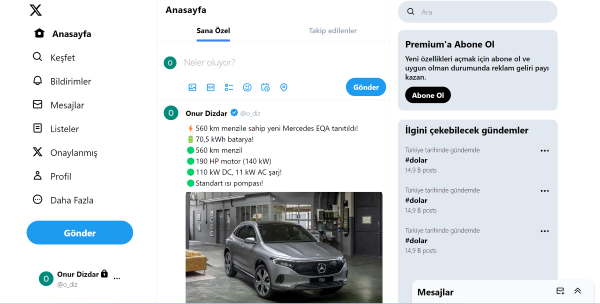
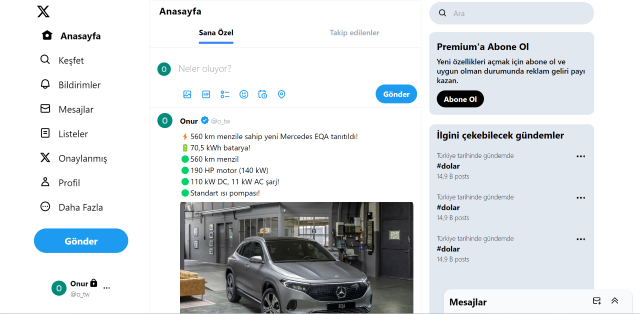
images resized

diff --git a/twitter-clone/src/components/altComponents/Tweets.jsx b/twitter-clone/src/components/altComponents/Tweets.jsx
@@ -16,14 +16,14 @@ export const Tweets = () => {
                 <div className="flex flex-col pl-2">
                   <div className="flex items-center">
                     <div className="font-bold flex text-base items-center">
-                      Onur Dizdar
+                      Onur
                       <span className="max-[600px]:scale-75 scale-90 hover:bg-slate-200 rounded-full p-1 cursor-pointer px-1">
                         <svg width="20" height="25" fill="#1d9bf0">
                           <path d="M20.396 11c-.018-.646-.215-1.275-.57-1.816-.354-.54-.852-.972-1.438-1.246.223-.607.27-1.264.14-1.897-.131-.634-.437-1.218-.882-1.687-.47-.445-1.053-.75-1.687-.882-.633-.13-1.29-.083-1.897.14-.273-.587-.704-1.086-1.245-1.44S11.647 1.62 11 1.604c-.646.017-1.273.213-1.813.568s-.969.854-1.24 1.44c-.608-.223-1.267-.272-1.902-.14-.635.13-1.22.436-1.69.882-.445.47-.749 1.055-.878 1.688-.13.633-.08 1.29.144 1.896-.587.274-1.087.705-1.443 1.245-.356.54-.555 1.17-.574 1.817.02.647.218 1.276.574 1.817.356.54.856.972 1.443 1.245-.224.606-.274 1.263-.144 1.896.13.634.433 1.218.877 1.688.47.443 1.054.747 1.687.878.633.132 1.29.084 1.897-.136.274.586.705 1.084 1.246 1.439.54.354 1.17.551 1.816.569.647-.016 1.276-.213 1.817-.567s.972-.854 1.245-1.44c.604.239 1.266.296 1.903.164.636-.132 1.22-.447 1.68-.907.46-.46.776-1.044.908-1.681s.075-1.299-.165-1.903c.586-.274 1.084-.705 1.439-1.246.354-.54.551-1.17.569-1.816zM9.662 14.85l-3.429-3.428 1.293-1.302 2.072 2.072 4.4-4.794 1.347 1.246z"></path>
                         </svg>
                       </span>
                     </div>
-                    <div className="font-light text-sm max-[600px]:text-xs text-slate-500">@o_diz</div>
+                    <div className="font-light text-sm max-[600px]:text-xs text-slate-500">@o_tw</div>
                   </div>
                   <div className="max-h-[568px]">
                     <div className="pt-1">
@@ -93,14 +93,14 @@ export const Tweets = () => {
                 <div className="flex flex-col pl-2">
                   <div className="flex items-center">
                     <div className="font-bold flex text-base items-center">
-                      Onur Dizdar
+                      Onur
                       <span className="max-[600px]:scale-75 scale-90 hover:bg-slate-200 rounded-full p-1 cursor-pointer px-1">
                         <svg width="20" height="25" fill="#1d9bf0">
                           <path d="M20.396 11c-.018-.646-.215-1.275-.57-1.816-.354-.54-.852-.972-1.438-1.246.223-.607.27-1.264.14-1.897-.131-.634-.437-1.218-.882-1.687-.47-.445-1.053-.75-1.687-.882-.633-.13-1.29-.083-1.897.14-.273-.587-.704-1.086-1.245-1.44S11.647 1.62 11 1.604c-.646.017-1.273.213-1.813.568s-.969.854-1.24 1.44c-.608-.223-1.267-.272-1.902-.14-.635.13-1.22.436-1.69.882-.445.47-.749 1.055-.878 1.688-.13.633-.08 1.29.144 1.896-.587.274-1.087.705-1.443 1.245-.356.54-.555 1.17-.574 1.817.02.647.218 1.276.574 1.817.356.54.856.972 1.443 1.245-.224.606-.274 1.263-.144 1.896.13.634.433 1.218.877 1.688.47.443 1.054.747 1.687.878.633.132 1.29.084 1.897-.136.274.586.705 1.084 1.246 1.439.54.354 1.17.551 1.816.569.647-.016 1.276-.213 1.817-.567s.972-.854 1.245-1.44c.604.239 1.266.296 1.903.164.636-.132 1.22-.447 1.68-.907.46-.46.776-1.044.908-1.681s.075-1.299-.165-1.903c.586-.274 1.084-.705 1.439-1.246.354-.54.551-1.17.569-1.816zM9.662 14.85l-3.429-3.428 1.293-1.302 2.072 2.072 4.4-4.794 1.347 1.246z"></path>
                         </svg>
                       </span>
                     </div>
-                    <div className="font-light text-sm max-[600px]:text-xs text-slate-500">@o_diz</div>
+                    <div className="font-light text-sm max-[600px]:text-xs text-slate-500">@o_tw</div>
                   </div>
                   <div className="max-h-[568px]">
                     <div className="pt-1">

diff --git a/twitter-clone/src/components/LeftBar.jsx b/twitter-clone/src/components/LeftBar.jsx
@@ -128,14 +128,14 @@ const LeftBar = () => {
           </div>
           <div>
             <div className="font-bold flex text-base items-center">
-              Onur Dizdar
+              Onur
               <span className="scale-90">
                 <svg width="20" height="25">
                   <path d="M17.5 7H17v-.25c0-2.76-2.24-5-5-5s-5 2.24-5 5V7h-.5C5.12 7 4 8.12 4 9.5v9C4 19.88 5.12 21 6.5 21h11c1.39 0 2.5-1.12 2.5-2.5v-9C20 8.12 18.89 7 17.5 7zM13 14.73V17h-2v-2.27c-.59-.34-1-.99-1-1.73 0-1.1.9-2 2-2 1.11 0 2 .9 2 2 0 .74-.4 1.39-1 1.73zM15 7H9v-.25c0-1.66 1.35-3 3-3 1.66 0 3 1.34 3 3V7z"></path>
                 </svg>
               </span>
             </div>
-            <div className="font-light text-sm">@o_diz</div>
+            <div className="font-light text-sm">@o_tw</div>
           </div>
           <div className="scale-75">
             <svg width="20" height="25">
